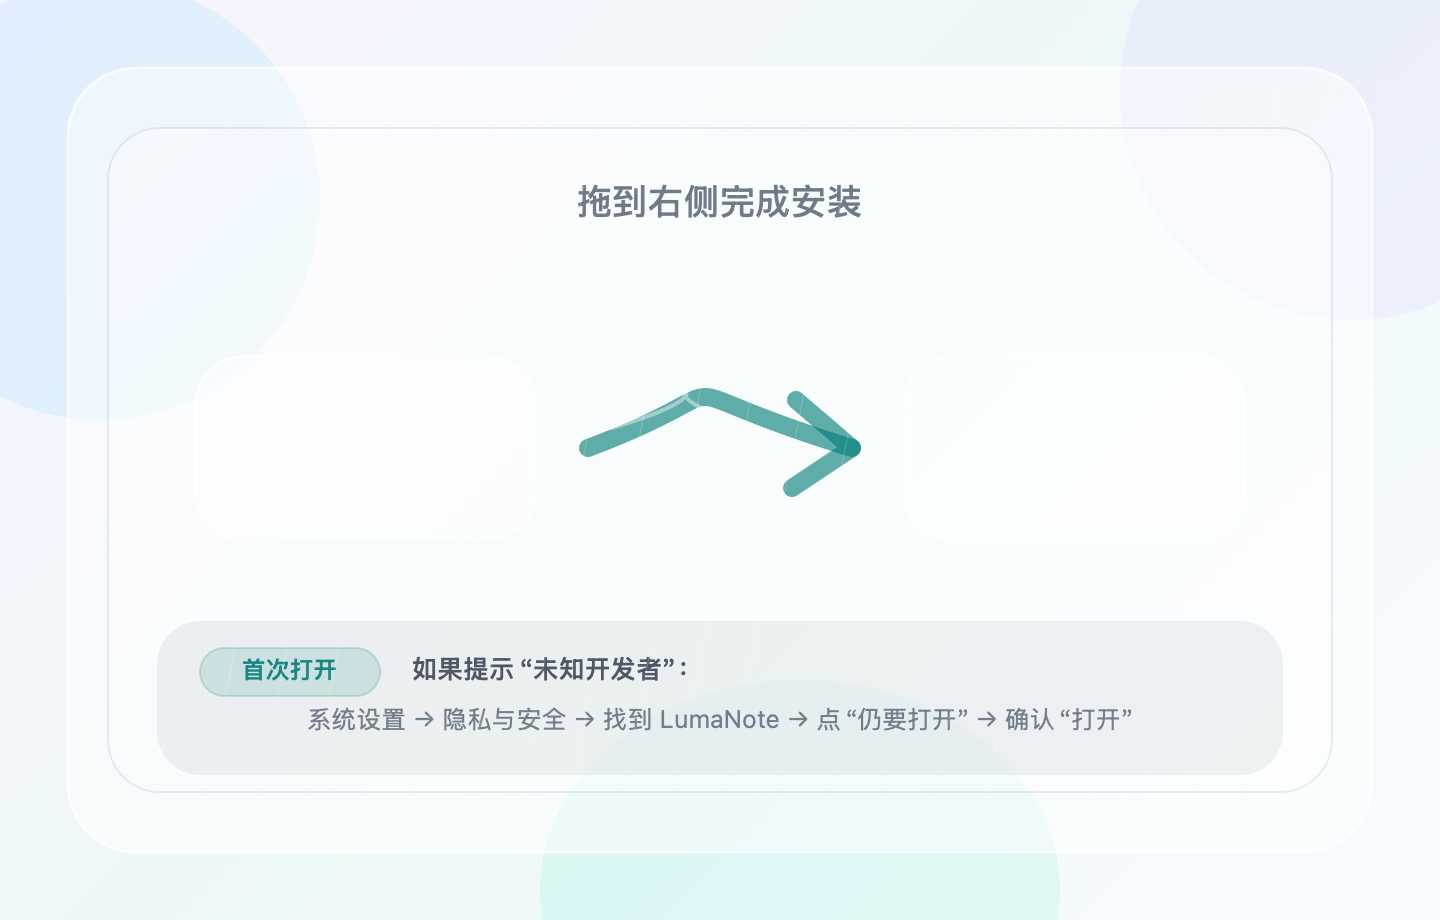
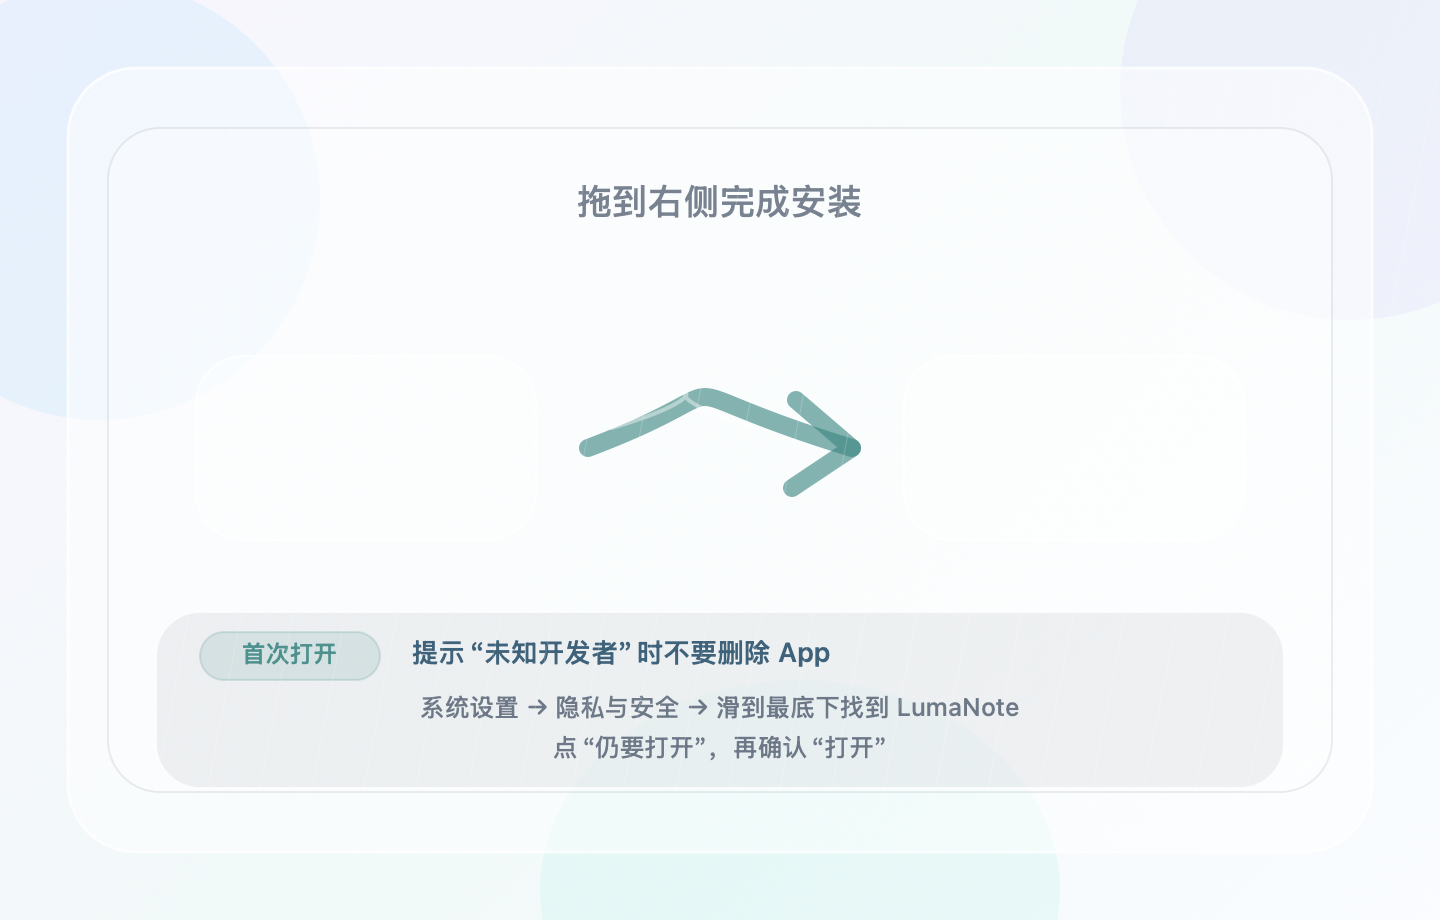
完善 DMG 打包引导

Changed region(s): [[0.125, 0.7, 0.7812, 0.8217], [0.4062, 0.4261, 0.5938, 0.5174], [0.5312, 0.5174, 0.5625, 0.5478]]

diff --git a/app/QuietNote/scripts/generate-dmg-background.swift b/app/QuietNote/scripts/generate-dmg-background.swift
@@ -124,7 +124,7 @@ rightCard.stroke()
 
 drawArrow(from: CGPoint(x: 294, y: 236), to: CGPoint(x: 426, y: 236))
 
-let warningRect = NSRect(x: 78, y: 72, width: 564, height: 78)
+let warningRect = NSRect(x: 78, y: 66, width: 564, height: 88)
 let warningPanel = roundedRect(warningRect, radius: 22)
 color(0x0F172A, 0.06).setFill()
 warningPanel.fill()
@@ -132,11 +132,12 @@ color(0xFFFFFF, 0.70).setStroke()
 warningPanel.lineWidth = 1
 warningPanel.stroke()
 
-drawCapsule(NSRect(x: 100, y: 112, width: 90, height: 24), fill: color(0x0F766E, 0.13), stroke: color(0x0F766E, 0.18))
-drawText("首次打开", rect: NSRect(x: 112, y: 116, width: 66, height: 17), size: 12, weight: .semibold, color: color(0x0F766E, 0.88), align: .center)
+drawCapsule(NSRect(x: 100, y: 120, width: 90, height: 24), fill: color(0x0F766E, 0.13), stroke: color(0x0F766E, 0.18))
+drawText("首次打开", rect: NSRect(x: 112, y: 124, width: 66, height: 17), size: 12, weight: .semibold, color: color(0x0F766E, 0.88), align: .center)
 
-drawText("如果提示“未知开发者”：", rect: NSRect(x: 206, y: 114, width: 410, height: 20), size: 13, weight: .semibold, color: color(0x0F172A, 0.72))
-drawText("系统设置 → 隐私与安全 → 找到 LumaNote → 点“仍要打开” → 确认“打开”", rect: NSRect(x: 100, y: 88, width: 520, height: 20), size: 12.5, weight: .regular, color: color(0x334155, 0.68), align: .center)
+drawText("提示“未知开发者”时不要删除 App", rect: NSRect(x: 206, y: 122, width: 410, height: 20), size: 13.5, weight: .semibold, color: color(0x0F3B57, 0.86))
+drawText("系统设置 → 隐私与安全 → 滑到最底下找到 LumaNote", rect: NSRect(x: 100, y: 94, width: 520, height: 20), size: 12.5, weight: .medium, color: color(0x334155, 0.76), align: .center)
+drawText("点“仍要打开”，再确认“打开”", rect: NSRect(x: 100, y: 74, width: 520, height: 20), size: 12.5, weight: .medium, color: color(0x334155, 0.76), align: .center)
 
 let textureColor = color(0xFFFFFF, 0.22)
 for x in stride(from: 50, through: 670, by: 26) {
